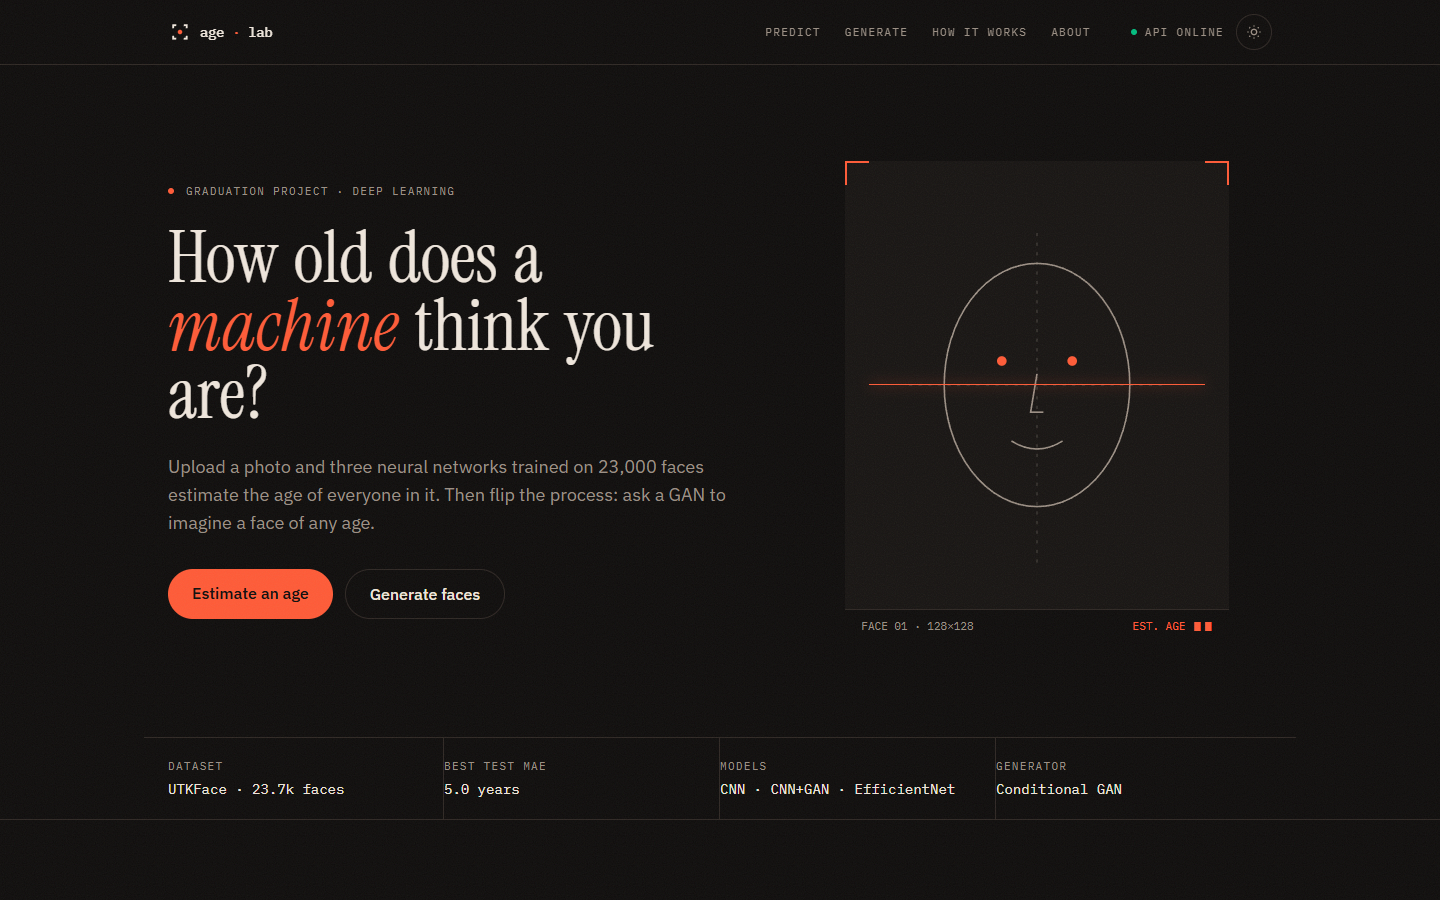
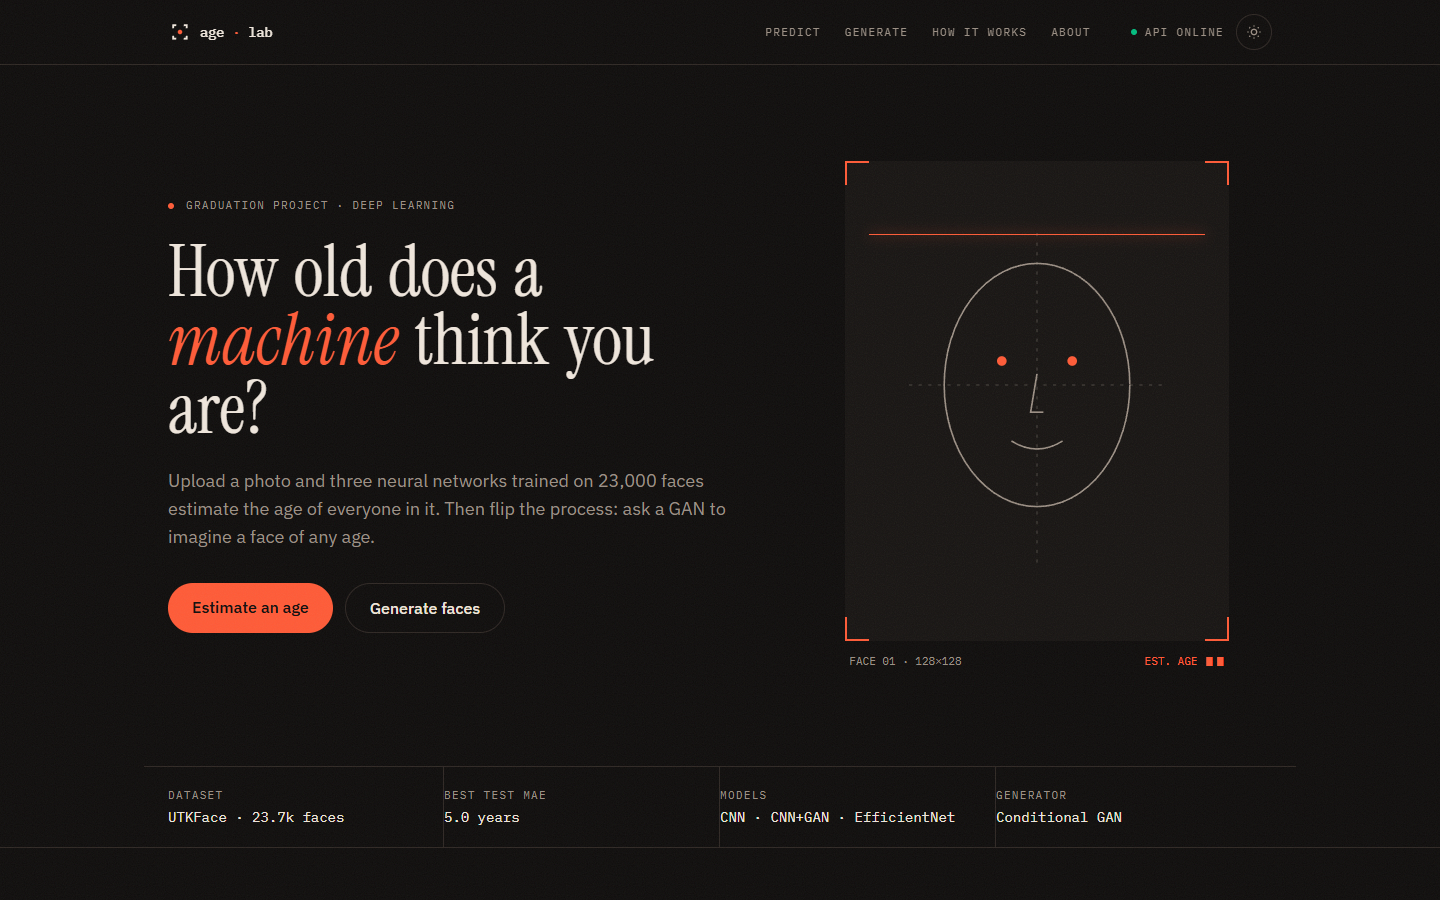
Show all four corner marks on the hero viewfinder

diff --git a/frontend/src/sections/Hero.tsx b/frontend/src/sections/Hero.tsx
@@ -94,35 +94,38 @@ function HeroViewfinder() {
       initial={{ opacity: 0, scale: 0.96 }}
       animate={{ opacity: 1, scale: 1 }}
       transition={{ duration: 1, delay: 0.3, ease }}
-      className="relative mx-auto aspect-[4/5] w-full max-w-sm bg-surface"
+      className="mx-auto w-full max-w-sm"
     >
-      <CornerMarks size="size-6" />
-      <svg viewBox="0 0 200 250" className="absolute inset-8 h-[calc(100%-4rem)] w-[calc(100%-4rem)] text-muted">
-        <motion.ellipse
-          cx="100" cy="115" rx="58" ry="76" fill="none" stroke="currentColor" strokeWidth="1"
-          initial={{ pathLength: 0 }} animate={{ pathLength: 1 }} transition={{ duration: 1.6, delay: 0.6, ease }}
+      <div className="relative aspect-[4/5] bg-surface">
+        <CornerMarks size="size-6" />
+        <svg viewBox="0 0 200 250" className="absolute inset-8 h-[calc(100%-4rem)] w-[calc(100%-4rem)] text-muted">
+          <motion.ellipse
+            cx="100" cy="115" rx="58" ry="76" fill="none" stroke="currentColor" strokeWidth="1"
+            initial={{ pathLength: 0 }} animate={{ pathLength: 1 }} transition={{ duration: 1.6, delay: 0.6, ease }}
+          />
+          {[[78, 100], [122, 100]].map(([cx, cy], i) => (
+            <motion.circle key={i} cx={cx} cy={cy} r="3" className="fill-accent"
+              initial={{ scale: 0 }} animate={{ scale: 1 }} transition={{ delay: 1.6 + i * 0.1 }} />
+          ))}
+          <motion.path d="M100 108 L96 132 L104 132" fill="none" stroke="currentColor" strokeWidth="1"
+            initial={{ pathLength: 0 }} animate={{ pathLength: 1 }} transition={{ duration: 0.6, delay: 1.8 }} />
+          <motion.path d="M84 150 Q100 160 116 150" fill="none" stroke="currentColor" strokeWidth="1"
+            initial={{ pathLength: 0 }} animate={{ pathLength: 1 }} transition={{ duration: 0.6, delay: 2 }} />
+          <line x1="100" y1="20" x2="100" y2="230" stroke="currentColor" strokeWidth="0.5" strokeDasharray="2 4" opacity="0.5" />
+          <line x1="20" y1="115" x2="180" y2="115" stroke="currentColor" strokeWidth="0.5" strokeDasharray="2 4" opacity="0.5" />
+        </svg>
+
+        {/* scan line */}
+        <motion.div
+          className="absolute inset-x-6 h-px bg-accent shadow-[0_0_12px_var(--accent)]"
+          initial={{ top: "8%" }}
+          animate={{ top: ["8%", "92%", "8%"] }}
+          transition={{ duration: 4, repeat: Infinity, ease: "easeInOut", delay: 1 }}
         />
-        {[[78, 100], [122, 100]].map(([cx, cy], i) => (
-          <motion.circle key={i} cx={cx} cy={cy} r="3" className="fill-accent"
-            initial={{ scale: 0 }} animate={{ scale: 1 }} transition={{ delay: 1.6 + i * 0.1 }} />
-        ))}
-        <motion.path d="M100 108 L96 132 L104 132" fill="none" stroke="currentColor" strokeWidth="1"
-          initial={{ pathLength: 0 }} animate={{ pathLength: 1 }} transition={{ duration: 0.6, delay: 1.8 }} />
-        <motion.path d="M84 150 Q100 160 116 150" fill="none" stroke="currentColor" strokeWidth="1"
-          initial={{ pathLength: 0 }} animate={{ pathLength: 1 }} transition={{ duration: 0.6, delay: 2 }} />
-        <line x1="100" y1="20" x2="100" y2="230" stroke="currentColor" strokeWidth="0.5" strokeDasharray="2 4" opacity="0.5" />
-        <line x1="20" y1="115" x2="180" y2="115" stroke="currentColor" strokeWidth="0.5" strokeDasharray="2 4" opacity="0.5" />
-      </svg>
+      </div>
 
-      {/* scan line */}
-      <motion.div
-        className="absolute inset-x-6 h-px bg-accent shadow-[0_0_12px_var(--accent)]"
-        initial={{ top: "8%" }}
-        animate={{ top: ["8%", "92%", "8%"] }}
-        transition={{ duration: 4, repeat: Infinity, ease: "easeInOut", delay: 1 }}
-      />
-
-      <div className="absolute inset-x-0 -bottom-px flex justify-between border-t border-line bg-bg px-4 py-2 font-mono text-[11px] text-muted">
+      {/* Readout sits below the frame so all four corner marks stay visible */}
+      <div className="mt-3 flex justify-between px-1 font-mono text-[11px] text-muted">
         <span>FACE 01 · 128×128</span>
         <span className="text-accent">EST. AGE ▮▮</span>
       </div>
